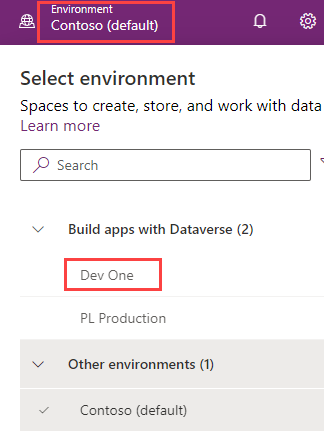
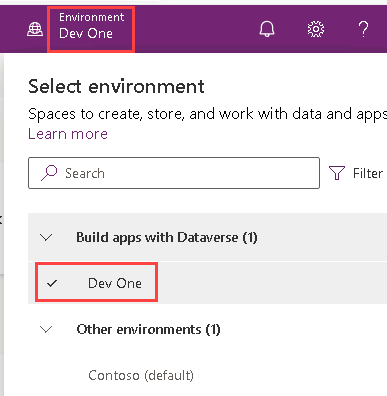
Lab 1

diff --git a/Instructions/Labs/LAB[PL-7002]_M01L01_Create_flows.md b/Instructions/Labs/LAB[PL-7002]_M01L01_Create_flows.md
@@ -1,0 +1,233 @@
+---
+lab:
+    title: 'Lab 1: Create cloud flows'
+    module: 'Module 1: Get started with Power Automate'
+---
+
+# Practice Lab 1 – Create cloud flows
+
+In this lab you will create cloud flows.
+
+## What you will learn
+
+- How to create Power Automate cloud flows from a template and with CoPilot
+- How to create a Power Automate cloud flow from blank and add actions
+
+## High-level lab steps
+
+- Create a cloud flow from a template
+- Create a cloud flow with CoPilot
+- Create a cloud flow
+- Monitor cloud flow activity
+  
+## Prerequisites
+
+- Must have completed **Lab 0: Validate lab environment**
+
+## Detailed steps
+
+## Exercise 1 – Create a cloud flow from a template
+
+### Task 1.1 - Select a template
+
+1. Navigate to the Power Automate portal <https://make.powerautomate.com>.
+
+1. Select the **Dev One** environment.
+
+    ![Environment selector in Power Automate.](../media/select-dev-one-environment-power-automate.png)
+
+1. Select the **Templates** tab from the left-side menu.
+
+1. Select the **Button** tab.
+
+1. Enter `location` in the search field
+
+    ![Screenshot of flow templates.](../media/flow-templates.png)
+
+1. Select **Get today's weather forecast for my current location**.
+
+    ![Screenshot of create connections.](../media/create-connections.png)
+
+1. Select **Create** for **MSN Weather**.
+
+1. Select **Create** for **Notifications**.
+
+1. Select **Create Flow**.
+
+    ![Screenshot of flow details.](../media/flow-details.png)
+
+### Task 1.2 - Run the flow
+
+1. Select **Run**.
+
+1. If prompted, select **Allow** for **Know your location**
+
+1. Select **Continue**.
+
+1. Select **Run flow**.
+
+1. Select **Done**.
+
+    ![Screenshot of flow run history.](../media/run-history.png)
+
+### Task 1.3 - Review the flow
+
+1. Select the date and time in the flow run history.
+
+    ![Screenshot of flow run detail.](../media/flow-run-collapsed.png)
+
+1. Select the **Condition** step to expand the flow steps.
+
+    ![Screenshot of flow run steps.](../media/flow-run-steps.png)
+
+1. Select the **Get forecast for today** step with the green tick.
+
+    ![Screenshot of flow run step output.](../media/flow-run-step.png)
+
+1. Select **Edit**
+
+1. Select the **Condition** step to expand the flow steps.
+
+1. Select **Expand condition**
+
+1. Select one of the **Send a push notification** steps.
+
+1. Select **Flow checker**. There should be no errors or warnings.
+
+1. Close the **Flow checker** pane.
+
+### Task 1.4 - Test the flow
+
+1. Select **Test**, select **Automatically**, select **With a recently used trigger**, and then select the flow run.
+
+    ![Screenshot of test flow with recently used trigger.](../media/test-flow.png)
+
+1. Select **Test**.
+
+1. Select the **<-** Back button from the top left of the command bar.
+
+## Exercise 2 – Create a cloud flow with CoPilot
+
+### Task 2.1 - Enter a prompt
+
+1. Navigate to the Power Automate portal <https://make.powerautomate.com>.
+
+1. Make sure you are in the **Dev One** environment.
+
+1. Select the **Home** tab from the left-side menu.
+
+1. Under **Let's automate something. What should it do?** enter `Every day send me an email with the daily summary from MSN Weather`.
+
+    ![Screenshot of copilot prompt.](../media/copilot-prompt.png)
+
+1. Select **Generate**.
+
+    ![Screenshot of suggested flow.](../media/copilot-suggestion.png)
+
+1. Select **Next**.
+
+1. Select **Create flow**.
+
+    ![Screenshot of flow created by Copilot.](../media/copilot-flow.png)
+
+### Task 2.2 - Configure flow step
+
+1. Select the **Get Forecast for today** step.
+
+    ![Screenshot of flow step parameters.](../media/flow-step-parameters.png)
+
+1. Enter `Seattle` for **Location**.
+
+1. Select the **X** to clear **Units** and in the drop-down select **Imperial**
+
+1. Select **Save**
+
+1. Test the flow.
+
+1. Select the **<-** Back button from the top left of the command bar.
+
+## Exercise 3 – Create a cloud flow from blank
+
+### Task 3.1 - Create the trigger
+
+1. Navigate to the Power Automate portal <https://make.powerautomate.com>.
+
+1. Make sure you are in the **Dev One** environment.
+
+1. Select the **+ Create** tab from the left-side menu.
+
+1. Select **Automated cloud flow**.
+
+1. Enter `Important email` for **Flow name**.
+
+1. Enter `email` in search.
+
+1. Select **When a new email arrives (V3)**.
+
+    ![Screenshot of build an automated flow dialog.](../media/build-automated-flow.png)
+
+1. Select **Create**.
+
+### Task 3.2 - Configure the trigger
+
+1. Select the **When a new email arrives (V3)** step.
+
+1. Select **Show all**.
+
+    ![Screenshot of email trigger parameters automated flow dialog.](../media/email-trigger-parameters.png)
+
+1. Select **No** for **Include attachments**.
+
+1. Select **High** for **Importance**.
+
+1. Select **Inbox** for **Folder**.
+
+### Task 3.3 - Add an action
+
+1. Select the **+** icon under the trigger step and select **Add an action**.
+
+1. Enter `notification` in search.
+
+    ![Screenshot of action search.](../media/search-action.png)
+
+1. Select **Post a feed notification** under **Microsoft Teams**.
+
+1. Select **Sign in**.
+
+1. Use your tenant credentials.
+
+1. Select **Team** for **Notification Type**.
+
+1. Enter your tenant user id for **Recipient**.
+
+1. Select **Notification Text** field and select the Dynamic content icon.
+
+    ![Screenshot of dynamic content.](../media/flow-dynamic-content.png)
+
+1. Select **Subject**.
+
+1. Select **Contoso** for **Team**.
+
+1. Select **General** for **Channel**.
+
+1. Select **Save**.
+
+1. Select the **<-** Back button from the top left of the command bar.
+
+## Exercise 4 – Monitor flows
+
+### Task 4.1 - Cloud flow activity
+
+1. Navigate to the Power Automate portal <https://make.powerautomate.com>.
+
+1. Make sure you are in the **Dev One** environment.
+
+1. Select **... More** from the left-side menu.
+
+    ![Screenshot of more options for Power Automate portal.](../media/power-automate-menu.png)
+
+1. Select the pin icon for **Cloud flow activity**.
+
+1. Select the **Cloud flow activity** tab from the left-side menu.
+
+    ![Screenshot of cloud flow activity.](../media/cloud-flow-activity.png)
